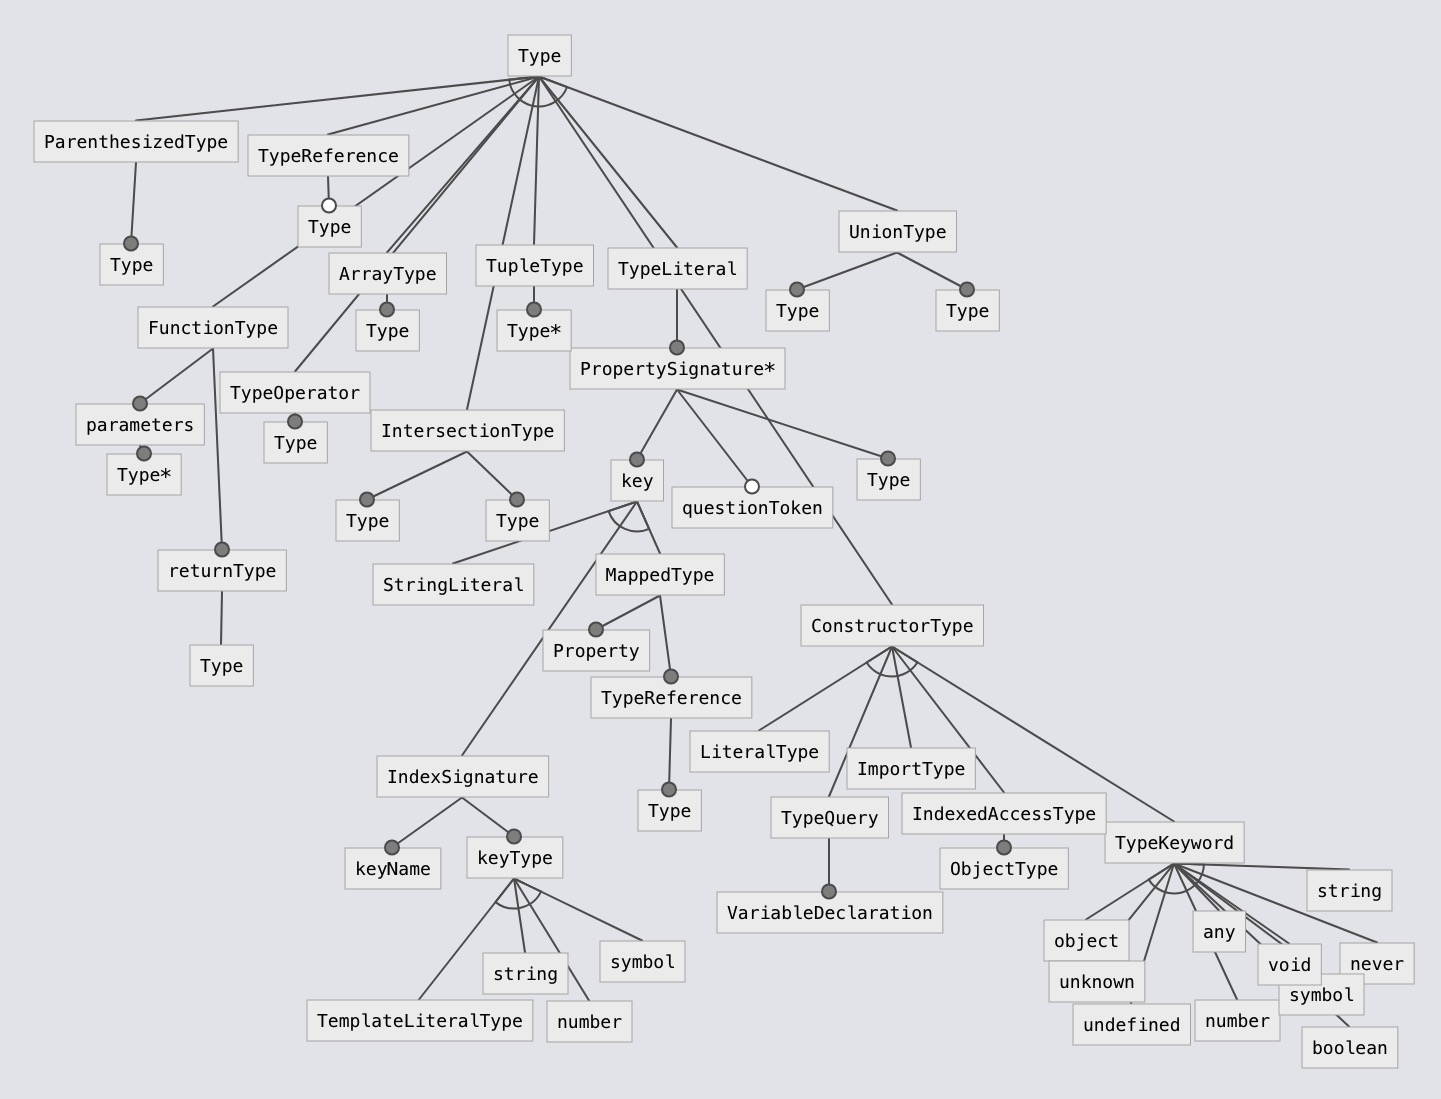
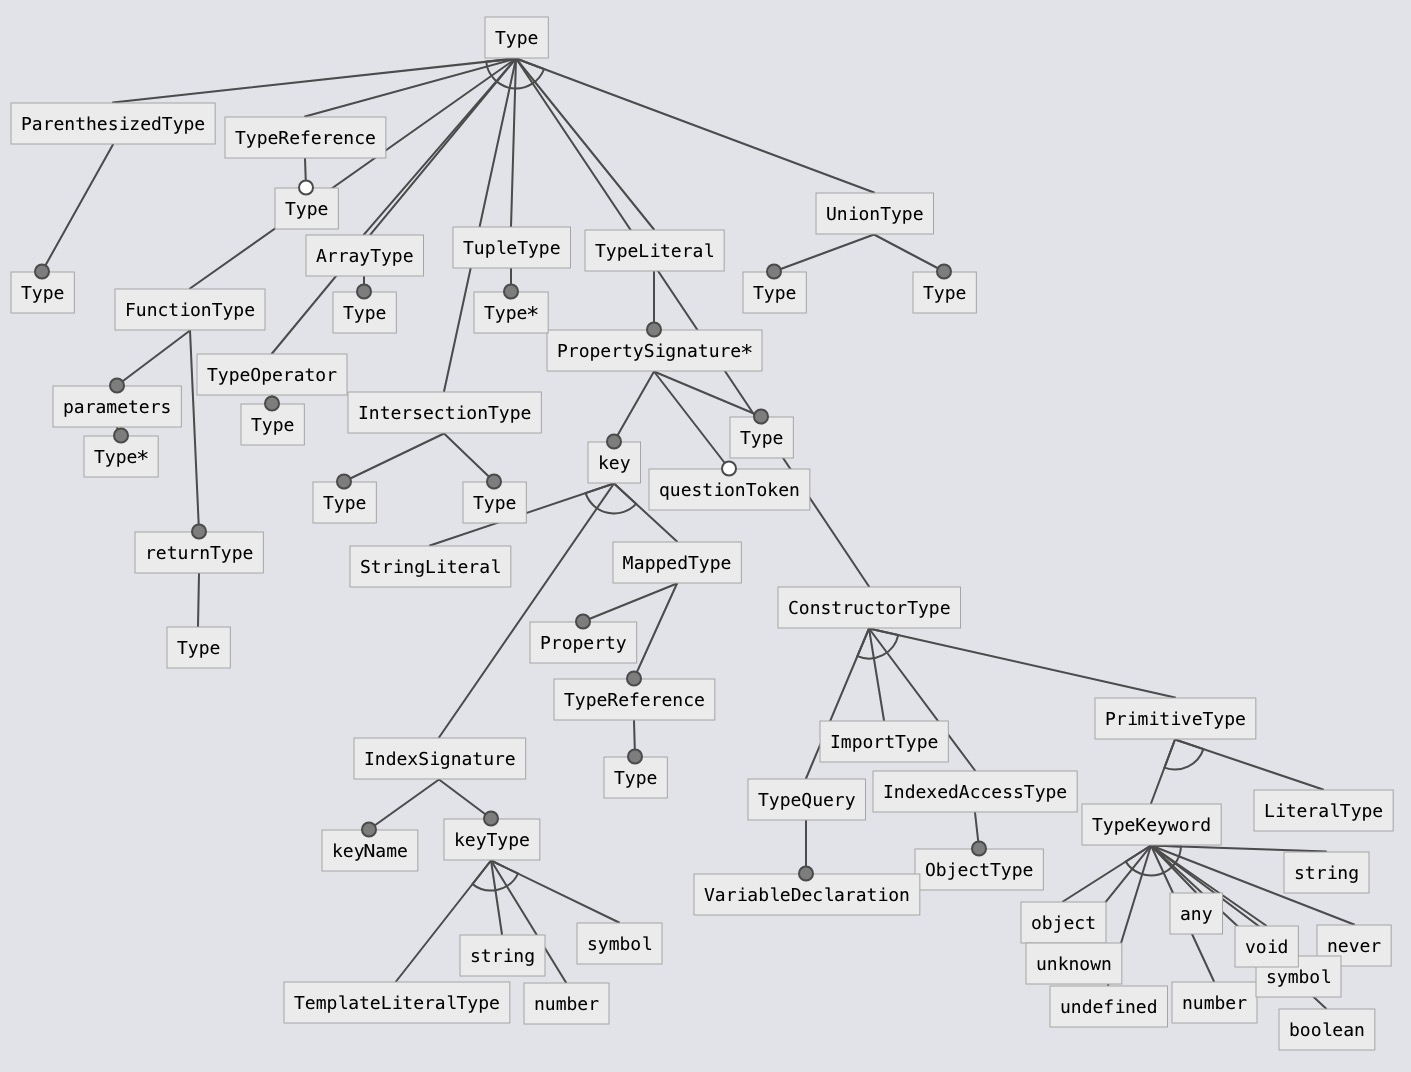
type model update after tests

diff --git a/src/featureModel/type/code.ts b/src/featureModel/type/code.ts
@@ -180,41 +180,47 @@ export const Type: FeatureModel = {
       childrenRelation: "xor",
       children: [
         {
-          name: "LiteralType",
-        },
-        {
-          name: "TypeKeyword",
+          name: "PrimitiveType",
           childrenRelation: "xor",
           children: [
             {
-              name: "string",
+              name: "LiteralType",
             },
             {
-              name: "number",
-            },
-            {
-              name: "boolean",
-            },
-            {
-              name: "any",
-            },
-            {
-              name: "never",
-            },
-            {
-              name: "object",
-            },
-            {
-              name: "symbol",
-            },
-            {
-              name: "undefined",
-            },
-            {
-              name: "unknown",
-            },
-            {
-              name: "void",
+              name: "TypeKeyword",
+              childrenRelation: "xor",
+              children: [
+                {
+                  name: "string",
+                },
+                {
+                  name: "number",
+                },
+                {
+                  name: "boolean",
+                },
+                {
+                  name: "any",
+                },
+                {
+                  name: "never",
+                },
+                {
+                  name: "object",
+                },
+                {
+                  name: "symbol",
+                },
+                {
+                  name: "undefined",
+                },
+                {
+                  name: "unknown",
+                },
+                {
+                  name: "void",
+                },
+              ],
             },
           ],
         },
